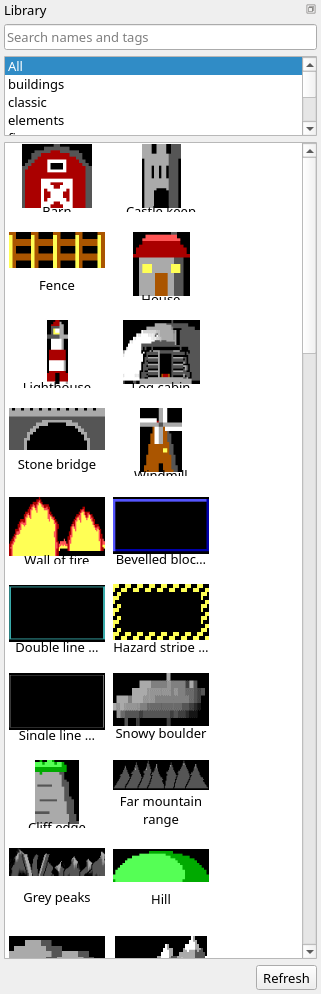
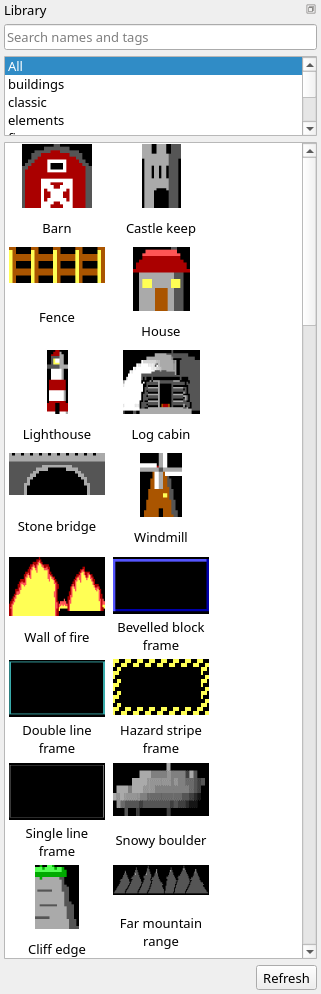
Retake the Library dock pictures from 27ab7fe (#430) (#42)
Retake the Library dock pictures from Blockwright 27ab7fe, where #430 (fixed by #432) shows every name under a thumbnail whole.

Changed region(s): [[0.0312, 0.2183, 0.6542, 0.9668]]

diff --git a/PLAN.md b/PLAN.md
@@ -45,7 +45,7 @@ Status is against Blockwright's `main` on 2026-11-05 (`06fbac5`). Issue and PR n
 | 05 | Shading: forms and falloff | Form shading (dome, cylinder, plane), soft falloff, ramp gradient tool, blend/smudge, despeckle | Written, checked against `fd10778`: step pictures from `replay` steps files, dock pictures from `--screenshot` (Tool Options set as the step it is taken at), final piece and Try-it file `.bwp` from `replay --project`; 4×4 Bayer banding is described, not pictured; dock pictures redrawn in the bundled font from `b4b9c49`, every picture, its crop and its alt text checked against it, and every `.ans` and `.bwp` reproduced byte for byte; the rest of the page not re-checked |
 | 06 | Light | Choosing a light direction, the rim light brush (Ctrl+Shift+L) and its eight compass points, form shading's light, highlights and glints; where the rim light can't help (counters, thin bars, canvas edges) | Written, checked against `fd10778`: step pictures from `replay` steps files, dock pictures from `--screenshot` (Tool Options set as the step it is taken at), final piece and Try-it file `.bwp` from `replay --project`; dock pictures redrawn in the bundled font from `b4b9c49`, every picture, its crop and its alt text checked against it, and every `.ans` and `.bwp` reproduced byte for byte; the rest of the page not re-checked |
 | 07 | Detail | Outline brush, texture stamps, glyph spray, clone stamp, symmetry: mirror X/Y, both, radial 2–8 | Written, checked against `fd10778`: step pictures from `replay` steps files, dock pictures from `--screenshot` (Tool Options set as the step it is taken at), final piece and Try-it file `.bwp` from `replay --project`; the clone stamp is described, not pictured (at `fd10778` `replay` had no clone action; from `210734b` it has one, pictured in the CLI page's [The clone stamp](manual/14-cli.md#the-clone-stamp), which this page now links); dock pictures redrawn in the bundled font from `b4b9c49`, every picture, its crop and its alt text checked against it, and every `.ans` and `.bwp` reproduced byte for byte; the rest of the page not re-checked |
-| 08 | Composing a scene | Selections, move, flip, rotate, paste modes (normal, transparent, under), guides, reference image, Library stamps, Scene Starter | Written, checked against `bb1c676`: step pictures, the mistakes and Try-it file `.bwp` from `replay --project` steps files (select, `moveSelection`, flip, rotate, cut, copy and paste in Under and Transparent mode, on a Cells layer of parts over the Background layer), the marquee from `--screenshot` with a `view` step (played by `--screenshot` only, since `replay` refuses it), the Paste setting and the Library dock from `--screenshot` (the Library with an empty user library, so bundled stamps only); guides, the reference image, placing a Library stamp and Save to Library are described, not pictured (`replay` has no action for View > Guides, Open Reference Image, placing a stamp or saving one, and `--screenshot` plays the same steps); Normal's difference from Transparent, painted spaces on black, is described, not pictured (on a layer of parts drawn from transparent cells the two land alike; Normal against Under is pictured); the Scene Starter isn't on `main`, and the page says so in one line |
+| 08 | Composing a scene | Selections, move, flip, rotate, paste modes (normal, transparent, under), guides, reference image, Library stamps, Scene Starter | Written, checked against `bb1c676`: step pictures, the mistakes and Try-it file `.bwp` from `replay --project` steps files (select, `moveSelection`, flip, rotate, cut, copy and paste in Under and Transparent mode, on a Cells layer of parts over the Background layer), the marquee from `--screenshot` with a `view` step (played by `--screenshot` only, since `replay` refuses it), the Paste setting and the Library dock from `--screenshot` (the Library with an empty user library, so bundled stamps only; the Library picture retaken from `27ab7fe`, where #430's fix shows every name whole, so the cut-off-labels gap is closed); guides, the reference image, placing a Library stamp and Save to Library are described, not pictured (`replay` has no action for View > Guides, Open Reference Image, placing a stamp or saving one, and `--screenshot` plays the same steps); Normal's difference from Transparent, painted spaces on black, is described, not pictured (on a layer of parts drawn from transparent cells the two land alike; Normal against Under is pictured); the Scene Starter isn't on `main`, and the page says so in one line |
 | 09 | Layers and projects | Layer kinds (cells, pixels, text, generator, reference), compositing, the project file, snapshots | Written, checked against `4b72bcc`: step pictures and Try-it file `.bwp` from `replay --project` steps files, dock pictures from `--screenshot`, snapshots from `blockwright-cli snapshot` (the same snapshot as **File > Take Snapshot**, which `replay` has no action for), the flat copy from `convert`; Text, Generator and Reference layers and the layer modes are described, not pictured (Text layers are 10's, generators 12's, the reference image 08's; the app has no control for the mode); dock pictures redrawn in the bundled font from `b4b9c49`, every picture, its crop and its alt text checked against it, and every `.ans` and `.bwp` reproduced byte for byte; the rest of the page not re-checked |
 | 10 | Letters and text | Lettering by hand, letters that misread at 1× (C/G, R/A, 0/D), TDF text layers | Written, checked against `fd10778`: step pictures, the misreads and Try-it file `.bwp` from `replay --project` steps files (letters drawn with the half-block brush on a Pixels layer, rows recoloured with the rectangle under alpha lock), dock pictures from `--screenshot`; the Text tool, the face picker, the fonts folder, Bake Layer and Text layers are described, not pictured (at `fd10778` `replay` had no text action, no CLI command made a Text layer, and Blockwright ships no TheDraw font; from `fbac0e1` a `replay` `text` step makes one in a bundled face, pictured in the CLI page's [The text tool](manual/14-cli.md#the-text-tool), which this page now links); dock pictures redrawn in the bundled font from `b4b9c49`, every picture, its crop and its alt text checked against it, and every `.ans` and `.bwp` reproduced byte for byte; the rest of the page not re-checked |
 | 11 | Made for IRC | The 407-byte line budget, trailing black and blank rows, glyphs CP437 can't hold, `export --irc`, the row meter, IRC view, lint panel, publish | Written, checked against `e5db865`: the sign, its fix and the Try-it file `.bwp` from `replay --project` steps files on IRC-target projects (`pack --target irc`), meter, IRC View and Lint pictures from `--screenshot`, full-width IRC views from `render --irc`, byte counts and lint output from `export --irc` and `lint`; Fit and Pad are shown through `export --irc --fit`/`--pad` and `render --irc --fit`, and Fit in the window too from `9cad05f` (`meter-fit.png`, a `view` step, #398, played by `--screenshot` only, since `replay` refuses it), and Publish to Library and the export dialogs are described, not pictured; dock pictures redrawn in the bundled font from `b4b9c49`, every picture, its crop and its alt text checked against it, and every `.ans` and `.bwp` reproduced byte for byte; the rest of the page not re-checked |
@@ -70,7 +70,7 @@ One page per area, in `manual/`. Each page is written when its feature is on Blo
 | Selections | §4 selections | Written, checked against `bb1c676` (`app/select_tool.cpp`, `app/main_window_edit.cpp`, `app/tool_options.cpp`, `core/src/selection.cpp`): the glyph tables from `core/src/selection.cpp`, checked with a `replay` of 34 of their glyphs through each action; the paste modes pictured from a `replay --project` steps file (a sun with spaces-on-black corners pasted Normal, Transparent and Under on the bottom layer), the Under float before it lands from `--screenshot`, and the flips and turns from `replay --project`; a Transparent paste dropping a Pixels layer's half-set cells checked with `replay`, described, not pictured; the menus, Tool Options' Paste setting, Esc, Delete, mirror mode and the alpha lock are described, not pictured |
 | Symmetry | §4 mirror mode, §10 symmetry | Written, checked against `bb1c676` (`app/tool_options.cpp`, `app/canvas_view.cpp`, `app/draw_tools.cpp`, `core/include/blockwright/brush.h`, `core/src/brush.cpp`): radial 8 folds, a radial centre of your own, typing under Mirror X and a Line on a Pixels layer at 5 folds pictured from `replay` steps files; the Tool Options foot from `--screenshot`; the canvas showing no axis or centre checked with a `--screenshot` of the canvas; which tools follow it, the per-tool behaviours, the Pixels-layer refusal and the wide-character message are described, not pictured |
 | Layers | §5, §15 (layer styles) | Written, checked against `4b72bcc`; the pointer to the CLI's `text` step (#421) added from `fbac0e1` |
-| Library | §12 | Written for stamps, checked against `bb1c676` (`app/library_dock.cpp`, `app/main_window_library.cpp`, `core/src/library.cpp`, `core/src/stamp_slice.cpp`): the dock pictured from `--screenshot` with an empty user library, the bundled stamps and text styles from `blockwright-cli library list`; placing a stamp, resizing a frame or band, the Save to Library dialog and its messages, Save as Frame Style and Save as Preset are described, not pictured (steps files have no action that places or saves a stamp, and `--screenshot` can't open a dialog); prefabs and the Scene Starter aren't on `main`, and the page says so in one line |
+| Library | §12 | Written for stamps, checked against `bb1c676` (`app/library_dock.cpp`, `app/main_window_library.cpp`, `core/src/library.cpp`, `core/src/stamp_slice.cpp`): the dock pictured from `--screenshot` with an empty user library (retaken from `27ab7fe`: #430's fix shows every name whole, so the cut-off-labels gap is closed), the bundled stamps and text styles from `blockwright-cli library list`; placing a stamp, resizing a frame or band, the Save to Library dialog and its messages, Save as Frame Style and Save as Preset are described, not pictured (steps files have no action that places or saves a stamp, and `--screenshot` can't open a dialog); prefabs and the Scene Starter aren't on `main`, and the page says so in one line |
 | Colour | §4 SAUCE/iCE, palette; Phase 8 24-bit | Written, checked against `c44974c`; 24-bit covers reading only (drawing in 24-bit is Phase 8) |
 | IRC | §8 IRC text, §9 | Written, checked against `e5db865`: every example output from `export --irc` and `render --irc`; the IRC Budget dialog's note on an ANSI-target CP437 Send (#417) added from `b4b9c49`, checked against `app/irc_meter.cpp` (`--screenshot` can't open the dialog) |
 | Lint | §10 ladder lint, Phase 4 lint panel | Written, checked against `f34d296`; the deliberate single-pixel pattern note (#395) added from `e5db865` |

diff --git a/tutorials/08-composing-a-scene.md b/tutorials/08-composing-a-scene.md
@@ -115,7 +115,7 @@ To place parts over a photo or a sketch, **File > Open Reference Image...** puts
 
 The **Library** dock (**Window > Library**) holds stamps: parts kept as files, the bundled ones and your own. Search them, or pick a category:
 
-![The Library dock: a search box, a category list starting All, buildings, classic, elements, and a grid of stamp thumbnails with their names](../samples/08-composing-a-scene/library.png)
+![The Library dock: a search box, a category list starting All, buildings, classic, elements, and a grid of stamp thumbnails with their names under them (Barn, Castle keep, Fence, House, Lighthouse, Log cabin)](../samples/08-composing-a-scene/library.png)
 
 Double-click a stamp, or press <kbd>Enter</kbd> on it, and it floats at the cell cursor; drag one onto the canvas and it floats where you drop it. Either way the **Select** tool is now in hand and the stamp is a float like a paste. It lands in **Transparent** mode whatever **Paste** says, unless you change **Paste** while it floats. Move, flip or turn it, and press <kbd>Enter</kbd>.
 

diff --git a/manual/08-library.md b/manual/08-library.md
@@ -25,7 +25,7 @@ The Library dock can be moved and floated but not closed, so its **Window** menu
 
 ## The Library dock
 
-![The Library dock: a search box reading "Search names and tags", a category list with All highlighted over buildings, classic and elements, a grid of stamp thumbnails with their names (Barn, Castle keep, Fence, House, Lighthouse, Log cabin, Stone bridge, Windmill, Wall of fire, the four frames, Snowy boulder, Cliff edge, Far mountain range, Grey peaks, Hill), and a Refresh button at the bottom](../samples/manual-08-library/dock.png)
+![The Library dock: a search box reading "Search names and tags", a category list with All highlighted over buildings, classic and elements, a grid of stamp thumbnails with their names (Barn, Castle keep, Fence, House, Lighthouse, Log cabin, Stone bridge, Windmill, Wall of fire, the four frames, Snowy boulder, Cliff edge, Far mountain range), each name whole, wrapped onto a second line when it is long, and a Refresh button at the bottom](../samples/manual-08-library/dock.png)
 
 From the top:
 
